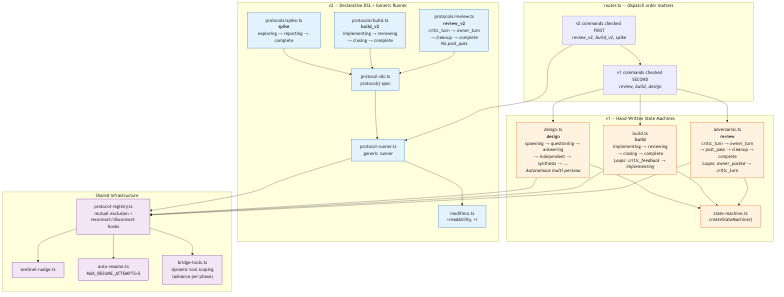
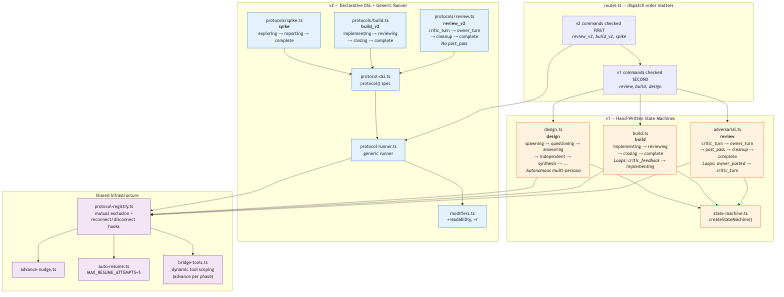
fix: review round 2 — fictional module, wrong edges, audit mutation
1. sentinel-nudge.ts → advance-nudge.ts (fictional module from
   unmerged branch name, same defect class as handleResurrectIntercept)

2. health-topology: remove fabricated edges (bootprobe→lifecycle wrong
   file, rh→lifecycle backwards, lifecycle→tj fabricated, preg→prun
   ambiguous) and floating nodes they connected. Honest absence is
   better than confident falsehood.

3. flow-protocol-robustness: mark design audit transition as direct
   phase mutation bypassing the state machine (design.ts:396,410
   writes state.phase='audit' around a machine that declares audit
   unreachable — real code defect surfaced by the review)

4. README: document HTML wrapper as primary pipeline (reads %% headers
   as title/subtitle), mmdc as fallback (discards them). Restate
   gen-protocol-diagrams.ts as prerequisite for protocol diagram
   accuracy, not a wishlist item.

diff --git a/diagrams/README.md b/diagrams/README.md
@@ -22,8 +22,11 @@ Mermaid sequence and flow diagrams documenting hydra's key flows. Each diagram h
 
 ## Rendering
 
-Render `.mmd` to `.png` using Mermaid CLI:
+Two pipelines exist. The HTML wrapper is primary — it reads `%%` header lines as title/subtitle and produces styled output. `mmdc` is a quick fallback that discards those headers.
 
+**HTML wrapper (primary):** Wrap the `.mmd` in an HTML shell that loads Mermaid, render via headless Chromium. This is what produced the original June diagrams with titles and styled participant boxes. Use the `html-diagram-rendering` skill (user-global, not in this repo) or build the wrapper manually.
+
+**mmdc (fallback):** Quick renders without titles. The `%%` header lines become dead comments.
 ```bash
 # Render one
 npx -y -p @mermaid-js/mermaid-cli mmdc -i diagrams/flow-spawn.mmd -o diagrams/flow-spawn.png -t default -b white
@@ -34,7 +37,13 @@ for f in diagrams/*.mmd; do npx -y -p @mermaid-js/mermaid-cli mmdc -i "$f" -o "$
 
 Commit both the `.mmd` source and the `.png` render.
 
-**Prefer generated diagrams over hand-drawn** when the source is machine-readable. `scripts/gen-topology.ts` is the model — it derives `docs/topology.mmd` from actual `import` statements and is provably fresh. The v2 protocol DSL (`protocols/*.ts`) is similarly machine-readable; a `gen-protocol-diagrams.ts` walking `protocol()` specs would eliminate the staleness problem for protocol diagrams.
+## Generated vs Hand-Drawn
+
+**Generated diagrams are the standard** when the source is machine-readable. `scripts/gen-topology.ts` is the model — it derives `docs/topology.mmd` from actual `import` statements and is provably fresh (0% staleness over its lifetime).
+
+Hand-drawn diagrams have a measured ~44% staleness rate over 5.5 weeks and produce fictional references at a rate that attention does not fix. They are appropriate only for cross-layer message flows with no single declarative source (spawn, fork, recovery cascade).
+
+**Prerequisite for protocol diagrams:** `scripts/gen-protocol-diagrams.ts` walking `protocol()` DSL specs would make phase/loop/grace errors structurally impossible. The v2 protocol DSL is already machine-readable. Until this generator exists, hand-drawn protocol diagrams should be treated as provisional and verified against code before citing.
 
 ## Catalog
 
